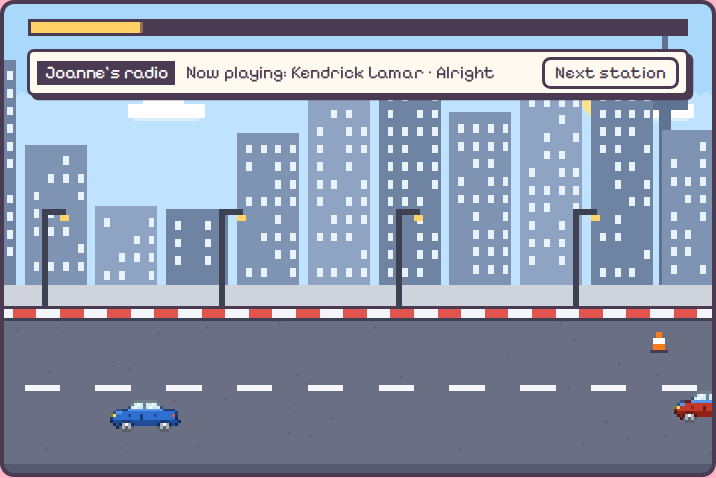
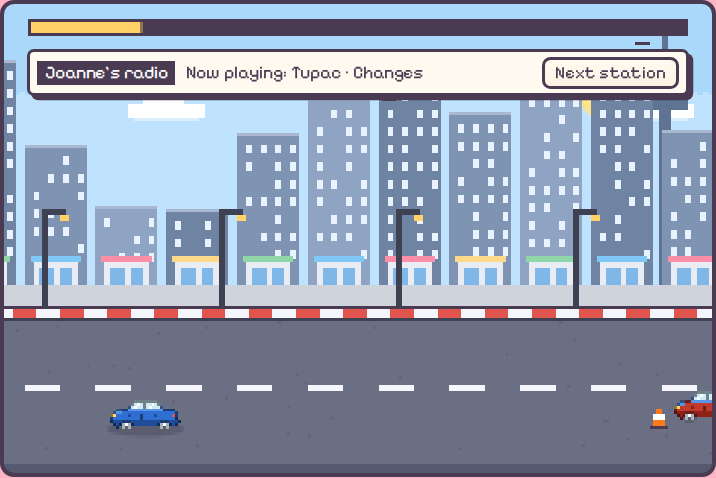
Detail and life-sim pass
- Furniture detail: panelled wardrobe, vanity gleam, locker vents and padlocks, desk keyboards and mice, round-leaf plants, layered palm, striped towel and rounded umbrella
- Window light on the bedroom floor, candle glow on Botanist tables, shop awnings and birds on the drive, two-tone battle platforms with sparkles
- Needs-style HUD: stat icons, bars coloured green/amber/red by level, glossy fill
- In-game clock per scene that ticks slowly and pauses in dialogue
- Speech bubbles over whoever is talking on the map
- Dollhouse depth: furniture front faces and lit wall tops; glossy buttons
- Refreshed screenshots; CLAUDE.md notes

Claude-Session: https://claude.ai/code/session_013V3J7QvyVWMSHyHkDs2Wb3

diff --git a/index.html b/index.html
@@ -18,17 +18,21 @@ body{min-height:100vh;display:flex;justify-content:center;font-family:'Pixelify 
 #app{width:min(100%,780px);padding:14px;display:flex;flex-direction:column;gap:14px}
 .shell{background:var(--shell);border:4px solid var(--ink);border-radius:28px 28px 60px 28px;padding:14px;box-shadow:8px 8px 0 var(--ink);display:flex;flex-direction:column;gap:12px}
 #hud{display:flex;flex-wrap:wrap;align-items:center;justify-content:space-between;gap:10px}
+#chapterWrap{display:flex;flex-direction:column;gap:2px;min-width:0}
 #chapter{font-size:clamp(15px,3.2vw,22px);font-weight:700}
+#clock{font-family:Figtree,sans-serif;font-size:12px;font-weight:700;color:var(--ink);background:rgba(255,255,255,.55);border-radius:6px;padding:1px 7px;width:-webkit-fit-content;width:fit-content;letter-spacing:.3px}
 #hudBtns{display:flex;gap:8px}
-.hbtn{border-radius:8px;font:inherit;font-size:14px;padding:6px 12px;min-height:36px;background:var(--paper);border:3px solid var(--ink);color:var(--ink);cursor:pointer;box-shadow:3px 3px 0 var(--ink)}
+.hbtn{border-radius:8px;font:inherit;font-size:14px;padding:6px 12px;min-height:36px;background:linear-gradient(var(--paper),#fdf2e2);border:3px solid var(--ink);color:var(--ink);cursor:pointer;box-shadow:3px 3px 0 var(--ink)}
 .hbtn{display:inline-flex;align-items:center;gap:6px}
 .hbtn svg{width:18px;height:18px;fill:none;stroke:currentColor;stroke-width:2.4;stroke-linecap:square;flex-shrink:0}
 .hbtn .x{display:none}#muteBtn[aria-pressed="true"] .x{display:inline}#muteBtn[aria-pressed="true"] .w{display:none}
 .hbtn:active{transform:translate(2px,2px);box-shadow:1px 1px 0 var(--ink)}
 #stats{width:100%;display:grid;grid-template-columns:repeat(5,minmax(0,1fr));gap:8px}
 .stat{display:flex;flex-direction:column;gap:3px;font-size:12px}
+.stat span{display:flex;align-items:center;gap:4px}
+.stat svg{width:11px;height:11px;fill:none;stroke:currentColor;stroke-width:2.2;stroke-linecap:round;stroke-linejoin:round;flex-shrink:0}
 .stat i{display:block;height:9px;border-radius:5px;overflow:hidden;background:var(--paper);border:2px solid var(--ink)}
-.stat b{display:block;height:100%;transition:width .4s}
+.stat b{display:block;height:100%;transition:width .4s,background .4s;background-image:linear-gradient(rgba(255,255,255,.45),rgba(255,255,255,0) 55%)}
 .stat.pulse i{animation:pulse .7s steps(2) 2}
 @keyframes pulse{50%{background:var(--sun)}}
 .chapcard{border-radius:1.2cqw;margin:0 6cqw;position:absolute;left:0;right:0;top:50%;transform:translateY(-50%);padding:3cqw 4cqw;background:var(--ink);color:#fff;text-align:center;font-size:max(15px,5.4cqw);font-weight:700;z-index:7;pointer-events:none;animation:chap 1.8s forwards}
@@ -55,7 +59,7 @@ body{min-height:100vh;display:flex;justify-content:center;font-family:'Pixelify 
 .panel h2{margin:0;font-size:5cqw;line-height:1}
 .panel p{margin:0}
 .sub{font-family:Figtree,sans-serif;font-size:max(11px,2.6cqw);color:var(--muted)}
-.opt{border-radius:1.2cqw;font:inherit;font-size:max(12px,3.2cqw);text-align:left;background:var(--paper);color:var(--ink);border:.55cqw solid var(--ink);padding:1.2cqw 2cqw;cursor:pointer;display:flex;flex-direction:column;justify-content:center;gap:.3cqw;min-height:7.5cqw}
+.opt{border-radius:1.2cqw;font:inherit;font-size:max(12px,3.2cqw);text-align:left;background:linear-gradient(var(--paper),#fdf2e2);color:var(--ink);border:.55cqw solid var(--ink);padding:1.2cqw 2cqw;cursor:pointer;display:flex;flex-direction:column;justify-content:center;gap:.3cqw;min-height:7.5cqw}
 .opt small{font-family:Figtree,sans-serif;font-size:max(10.5px,2.3cqw);color:var(--muted)}
 .opt.on{background:#fff3f6;border-color:var(--pinkd);box-shadow:.6cqw .6cqw 0 var(--pinkd)}
 .opt.done{background:#e3f6ea;border-color:#2f7a52;color:#2f7a52;box-shadow:none}
@@ -161,7 +165,7 @@ button:focus-visible{outline:3px solid #3d7be0;outline-offset:3px}
 <div id="app">
   <div class="shell">
     <header id="hud">
-      <div id="chapter">Annette's Big Day</div>
+      <div id="chapterWrap"><div id="chapter">Annette's Big Day</div><div id="clock" aria-live="off">7:30 am</div></div>
       <div id="hudBtns">
         <button class="hbtn" id="bagBtn" type="button" aria-label="Collection"><svg viewBox="0 0 24 24" aria-hidden="true"><path d="M5 8h14l-1 12H6L5 8z"/><path d="M9 8V6a3 3 0 0 1 6 0v2"/></svg><span class="bl">Collection</span></button>
         <button class="hbtn" id="muteBtn" type="button" aria-pressed="false" aria-label="Sound on"><svg viewBox="0 0 24 24" aria-hidden="true"><path d="M4 9h4l5-4v14l-5-4H4z"/><path class="w" d="M16.5 8.5a5 5 0 0 1 0 7M19 6a8.5 8.5 0 0 1 0 12"/><path class="x" d="M16 9l6 6M22 9l-6 6"/></svg><span class="bl">Sound on</span></button>
@@ -354,6 +358,15 @@ const G = {
 };
 const F = G.F;
 const STAT_INFO = { energy: ['Energy', '#3fae7c'], glow: ['Glow', '#ff6f91'], gains: ['Gains', '#3d7be0'], tidy: ['Tidy', '#ffb020'], happy: ['Happy', '#d6336c'] };
+const STAT_ICON = {
+  energy: '<path d="M6 1L2 7h4l-1 4 5-6H6z"/>',
+  glow: '<circle cx="6" cy="6" r="2.5"/><path d="M6 1v1.5M6 9.5V11M1 6h1.5M9.5 6H11M2.5 2.5l1 1M8.5 8.5l1 1M2.5 9.5l1-1M8.5 3.5l1-1"/>',
+  gains: '<path d="M2 4v4M10 4v4M3.5 3v6M8.5 3v6M3.5 6h5"/>',
+  tidy: '<path d="M2 6.5l3 3 5-6"/>',
+  happy: '<circle cx="6" cy="6" r="4.5"/><path d="M4 7c.6.9 1.3 1.3 2 1.3S7.4 7.9 8 7"/>'
+};
+// needs-style colouring: green when full, amber when slipping, red when low
+function needColour(v) { return v < 30 ? '#e05252' : v < 60 ? '#f0b429' : '#3fae7c'; }
 const BADGES = {
   glow: { n: 'Glow badge', how: 'Nail the skincare routine' },
   gains: { n: 'Gains badge', how: 'Set a PR at the squat rack' },
@@ -364,8 +377,14 @@ const SECRET_IDS = ['owl', 'book', 'card', 'poster'];
 
 /* ---------------- HUD ---------------- */
 const statsEl = $('#stats');
-Object.keys(STAT_INFO).forEach(k => { const s = el('div', 'stat', `<span>${STAT_INFO[k][0]}</span><i><b id="st-${k}" style="background:${STAT_INFO[k][1]}"></b></i>`); statsEl.append(s); });
-function updateHUD() { for (const k in G.stats) $('#st-' + k).style.width = G.stats[k] + '%'; }
+Object.keys(STAT_INFO).forEach(k => { const s = el('div', 'stat', `<span><svg viewBox="0 0 12 12" aria-hidden="true">${STAT_ICON[k]}</svg>${STAT_INFO[k][0]}</span><i><b id="st-${k}" style="background-color:${needColour(G.stats[k])}"></b></i>`); statsEl.append(s); });
+function updateHUD() { for (const k in G.stats) { const b = $('#st-' + k); b.style.width = G.stats[k] + '%'; b.style.backgroundColor = needColour(G.stats[k]); } }
+// in-game clock: each scene starts at its own time of day and ticks on slowly
+let clockMin = 7 * 60 + 30, clockAcc = 0;
+const SCENE_TIME = { bedroom: 7 * 60 + 30, gym: 8 * 60 + 45, office: 10 * 60 + 5, lunch: 12 * 60 + 30, beach: 17 * 60 + 20, botanist: 19 * 60 + 15, finale: 21 * 60, credits: 23 * 60 + 30 };
+function setClock(id) { if (SCENE_TIME[id] != null) clockMin = SCENE_TIME[id]; drawClock(); }
+function drawClock() { const h = Math.floor(clockMin / 60) % 24, m = clockMin % 60; $('#clock').textContent = ((h + 11) % 12 + 1) + ':' + ('0' + m).slice(-2) + (h < 12 ? ' am' : ' pm'); }
+function tickClock(dt) { if (G.scene === 'title' || G.mode === 'dialog' || G.mode === 'menu') return; clockAcc += dt; if (clockAcc >= 2.5) { clockAcc = 0; clockMin = Math.min(clockMin + 1, 23 * 60 + 59); drawClock(); } }
 function setChapter(t) { $('#chapter').textContent = t; }
 let lastCard = '';
 function chapterCard(t) {
@@ -684,7 +703,7 @@ function loadMap(id) {
   const s = M.start;
   G.p = { x: s.x, y: s.y, px: s.x * 16, py: s.y * 16, dir: s.dir || 'down', mv: null, bump: false };
   G.l = M.luca ? { x: M.luca.x, y: M.luca.y, px: M.luca.x * 16, py: M.luca.y * 16, mv: null, flip: M.luca.x > s.x } : null; // Luca only joins in the morning
-  clearUI(); setChapter(M.title); chapterCard(M.title); G.scene = 'map'; G.mode = 'map'; music(id);
+  clearUI(); setChapter(M.title); chapterCard(M.title); setClock(id); G.scene = 'map'; G.mode = 'map'; music(id);
   if (M.onEnter) M.onEnter();
 }
 function interact() {
@@ -882,7 +901,8 @@ function renderDrive() {
     for (let i = -1; i < 12; i++) {
       const k = base + i, x = i * 24 - off, h = 26 + Math.floor(hsh(k, 3, 1) * 52), c = ['#7f93b3', '#8fa3c3', '#6f83a3'][((k % 3) + 3) % 3];
       R(x, 96 - h, 21, h, c);
-      for (let wy = 96 - h + 4; wy < 92; wy += 6) for (let wx = 3; wx < 19; wx += 5) if (hsh(k, wy, wx) > 0.35) R(x + wx, wy, 2, 3, '#e9f3ff');
+      for (let wy = 96 - h + 4; wy < 86; wy += 6) for (let wx = 3; wx < 19; wx += 5) if (hsh(k, wy, wx) > 0.35) R(x + wx, wy, 2, 3, '#e9f3ff');
+      R(x, 96 - h, 21, 1, '#a9b8d0'); R(x + 3, 88, 15, 8, '#e9edf3'); R(x + 5, 90, 5, 6, '#7fb7e8'); R(x + 12, 90, 4, 6, '#7fb7e8'); R(x + 2, 86, 17, 2, ['#ff8fa8', '#ffd98a', '#8fd6a8', '#7fc8f8'][((k % 4) + 4) % 4]);
     }
     R(-4, 96, 248, 8, '#cfd3dc');
   } else {
@@ -906,7 +926,9 @@ function renderDrive() {
   R(-4, 157, 248, 3, '#565a70');
   d.cones.forEach(c => { const y = LANES[c.lane] + 4, x = c.x; R(x + 2, y, 2, 2, '#ff7a1a'); R(x + 1, y + 2, 4, 2, '#ffffff'); R(x + 1, y + 4, 4, 2, '#ff7a1a'); R(x, y + 6, 6, 1, INK); });
   d.slows.forEach(c => { drawSpr(sprite('corolla', { C: '#c0392b', c: '#8e2216' }), c.x, LANES[c.lane] - 2, false); });
+  oval(48, d.y + 11, 13, 2.5, 'rgba(35,29,51,.22)');
   drawSpr(sprite('corolla'), 36, d.y + (Math.floor(G.t * 10) % 2), false);
+  for (let i = 0; i < 3; i++) { const bx = ((i * 97 - d.scroll * 0.25) % 280 + 280) % 280 - 20, by = 14 + i * 9 + Math.round(Math.sin(G.t * 3 + i) * 1), w = Math.floor(G.t * 6 + i) % 2; R(bx, by + w, 2, 1, INK); R(bx + 2, by, 1, 1, INK); R(bx + 3, by + w, 2, 1, INK); }
   R(8, 5, 224, 6, INK); R(9, 6, 222 * clamp(d.t / d.dur, 0, 1), 4, '#ffd166');
   ctx.restore();
 }
@@ -1030,8 +1052,10 @@ function renderBattle() {
   R(0, 0, 240, 160, E.bg); for (let y = 6; y < 66; y += 12) R(0, y, 240, 1, 'rgba(35,29,51,.05)');
   for (let x = -40; x < 280; x += 20) { const o = (G.t * 6) % 20; R(x + o, 0, 6, 66, 'rgba(255,255,255,.18)'); }
   R(0, 66, 240, 94, E.floor); R(0, 66, 240, 2, 'rgba(35,29,51,.12)'); for (let y = 76; y < 160; y += 14) R(0, y, 240, 1, 'rgba(255,255,255,.25)');
-  oval(E.x + 24, E.y + (E.sprite === 'inbox' ? 40 : 30), 38, 7, '#bfe3a0', INK);
-  oval(56, 100, 46, 9, '#bfe3a0', INK);
+  const ey = E.y + (E.sprite === 'inbox' ? 40 : 30);
+  oval(E.x + 24, ey, 38, 7, '#bfe3a0', INK); oval(E.x + 24, ey - 1, 30, 4, '#d4efc0');
+  oval(56, 100, 46, 9, '#bfe3a0', INK); oval(56, 99, 36, 5, '#d4efc0');
+  for (let i = 0; i < 6; i++) { const a = G.t * 1.2 + i * 1.05, sx = E.x + 24 + Math.cos(a) * 34, sy = ey - 34 + Math.sin(a * 1.7) * 14; if ((Math.floor(G.t * 4) + i) % 3) R(Math.round(sx), Math.round(sy), 1, 1, '#ffffff'); }
   const bob = Math.round(Math.sin(G.t * 3) * 1.5);
   if (!(b.flashE > 0 && Math.floor(G.t * 20) % 2)) {
     drawSpr(sprite(E.sprite), E.x, E.y + bob, false, E.scale);
@@ -1073,7 +1097,7 @@ addEventListener('keydown', e => { if (G.mode === 'menu' && MENU && MENU.cols ==
 
 /* ---------------- chapter 4: lunch ---------------- */
 function lunchScene() {
-  clearUI(); G.scene = 'lunch'; setChapter('Chapter 4: Lunch break'); chapterCard('Chapter 4: Lunch break'); music('lunch');
+  clearUI(); G.scene = 'lunch'; setChapter('Chapter 4: Lunch break'); chapterCard('Chapter 4: Lunch break'); setClock('lunch'); music('lunch');
   const p = el('div', 'panel', '<h2>Lunch break</h2><p class="sub">Midday hunger hits. What are we grabbing?</p><div class="grid2"></div>');
   ui.append(p);
   const btns = CONFIG.lunches.map(d => makeBtn(`<span>${esc(d.n)}</span><small>${esc(d.d)}</small>`, () => {
@@ -1133,7 +1157,7 @@ function dinnerMenu() {
 function finale() {
   const lines = [{ n: CONFIG.boyfriend, t: "Okay. One more thing." }, "The staff bring out a birthday cake, candles lit.", "The whole bar starts singing."].concat(CONFIG.finaleMessage.map(t => ({ n: CONFIG.boyfriend, t })), [{ n: CONFIG.name, t: CONFIG.catchphrase }]);
   say(lines, () => fade(() => {
-    clearUI(); G.scene = 'finale'; G.mode = 'busy'; G.fx = []; G.fxT = 0;
+    clearUI(); G.scene = 'finale'; G.mode = 'busy'; setClock('finale'); G.fx = []; G.fxT = 0;
     G.stats.happy = 100; updateHUD(); setTimeout(() => earn('birthday'), 3500); music('finale'); setChapter('Happy birthday!');
     ui.append(el('div', 'big', 'Happy birthday, ' + esc(CONFIG.name) + '!'));
     const b = makeBtn('Roll credits', credits); b.classList.add('finbtn'); ui.append(b); setMenu([b]);
@@ -1200,7 +1224,7 @@ function drawFloor(th, X, Y, tx, ty) {
 function drawWall(th, X, Y, tx, ty, tiles) {
   const below = ty + 1 < tiles.length ? tiles[ty + 1][tx] : '#';
   const col = { bedroom: ['#f6dbe6', '#eab8cb'], gym: ['#eceff5', '#ff9fb4'], office: ['#eef2f7', '#cfd8e3'], botanist: ['#3f6f5a', '#e6c47a'] }[th];
-  R(X, Y, 16, 16, col[0]);
+  R(X, Y, 16, 16, col[0]); if (ty === 0) { R(X, Y, 16, 2, lite(col[0])); R(X, Y + 2, 16, 1, shade(col[0], 0.9)); }
   if (th === 'bedroom') { R(X + 3, Y, 1, 13, '#f2d0de'); R(X + 11, Y, 1, 13, '#f2d0de'); if ((tx + ty) % 2 === 0) { R(X + 6, Y + 5, 2, 2, col[1]); R(X + 8, Y + 5, 2, 2, col[1]); R(X + 7, Y + 7, 2, 1, col[1]); } R(X, Y + 11, 16, 2, '#ffffff'); }
   if (th === 'gym') R(X, Y + 5, 16, 3, col[1]);
   if (th === 'office') { R(X, Y + 11, 16, 1, col[1]); R(X, Y + 12, 16, 1, '#ffffff'); }
@@ -1211,13 +1235,13 @@ function drawWall(th, X, Y, tx, ty, tiles) {
 function isOrigin(tiles, tx, ty, c) { return (tx === 0 || tiles[ty][tx - 1] !== c) && (ty === 0 || tiles[ty - 1][tx] !== c); }
 function extent(tiles, tx, ty, c) { let w = 1, h = 1; while (tiles[ty][tx + w] === c) w++; while (tiles[ty + h] && tiles[ty + h][tx] === c) h++; return [w * 16, h * 16]; }
 function drawObject(th, c, X, Y, W, H) {
-  const box = (x, y, w, h, f) => { const o = shade(f, 0.55); R(X + x + 1, Y + y, w - 2, 1, o); R(X + x + 1, Y + y + h - 1, w - 2, 1, o); R(X + x, Y + y + 1, 1, h - 2, o); R(X + x + w - 1, Y + y + 1, 1, h - 2, o); R(X + x + 1, Y + y + 1, w - 2, h - 2, f); if (w > 4 && h > 4) R(X + x + 2, Y + y + 1, w - 4, 1, lite(f)); };
+  const box = (x, y, w, h, f) => { const o = shade(f, 0.55); R(X + x + 1, Y + y + h, w - 2, 2, shade(f, 0.42)); R(X + x + 1, Y + y, w - 2, 1, o); R(X + x + 1, Y + y + h - 1, w - 2, 1, o); R(X + x, Y + y + 1, 1, h - 2, o); R(X + x + w - 1, Y + y + 1, 1, h - 2, o); R(X + x + 1, Y + y + 1, w - 2, h - 2, f); if (w > 4 && h > 4) R(X + x + 2, Y + y + 1, w - 4, 1, lite(f)); R(X + x + 1, Y + y + 2, 1, h - 4, lite(f)); };
   const k = th + ':' + c;
   switch (k) {
     case 'bedroom:o': box(2, 2, 12, 10, '#bfe3ff'); R(X + 3, Y + 3, 2, 2, '#ffd166'); R(X + 7, Y + 3, 1, 8, '#fff'); R(X + 3, Y + 7, 10, 1, '#fff'); if (!G.secrets.owl) { R(X + 9, Y + 8, 4, 3, '#8a5a3b'); R(X + 10, Y + 8, 1, 1, '#ffd166'); R(X + 12, Y + 8, 1, 1, '#ffd166'); } break;
-    case 'bedroom:w': box(0, -8, W, H + 7, '#b07a4a'); R(X + W / 2, Y - 7, 1, H + 5, INK); R(X + W / 2 - 4, Y + 2, 2, 3, '#ffd166'); R(X + W / 2 + 3, Y + 2, 2, 3, '#ffd166'); break;
+    case 'bedroom:w': box(0, -8, W, H + 7, '#b07a4a'); R(X + 1, Y - 7, W - 2, 1, '#d9a56f'); R(X + 3, Y - 4, W / 2 - 5, H + 1, '#a06d40'); R(X + W / 2 + 2, Y - 4, W / 2 - 5, H + 1, '#a06d40'); R(X + 4, Y - 3, W / 2 - 7, 1, '#c48d5a'); R(X + W / 2 + 3, Y - 3, W / 2 - 7, 1, '#c48d5a'); R(X + W / 2, Y - 7, 1, H + 5, '#6b4a32'); R(X + W / 2 - 4, Y + 2, 2, 3, '#ffd98a'); R(X + W / 2 + 3, Y + 2, 2, 3, '#ffd98a'); R(X + 1, Y + H - 2, W - 2, 1, '#6b4a32'); break;
     case 'bedroom:k': { box(0, -8, W, H + 7, '#6b4a32'); const cols = ['#ff6f91', '#3d7be0', '#ffd166', '#3fae7c', '#c9b6f2', '#e2554f']; [-6, 1, 8].forEach((sy, si) => { for (let bx = 2, i = 0; bx < W - 3; bx += 3, i++) { const h = 4 + Math.floor(hsh(bx, si, 7) * 3); R(X + bx, Y + sy + (6 - h), 2, h, cols[(i + si) % cols.length]); } R(X + 1, Y + sy + 6, W - 2, 1, INK); }); break; }
-    case 'bedroom:v': box(W / 2 - 6, -12, 12, 11, '#dff3ff'); R(X + W / 2 - 3, Y - 10, 2, 5, '#ffffff'); box(0, 1, W, H - 2, '#ffffff'); R(X + 2, Y + 7, W - 4, 1, '#d7dce6'); R(X + 4, Y - 3, 3, 4, '#ff9fb8'); R(X + 8, Y - 2, 3, 3, '#9fd0ff'); R(X + W - 8, Y - 3, 2, 4, '#c9b6f2'); R(X + W - 5, Y - 2, 3, 3, '#ffd166'); break;
+    case 'bedroom:v': box(W / 2 - 6, -12, 12, 11, '#dff3ff'); R(X + W / 2 - 4, Y - 10, 8, 7, '#eaf7ff'); R(X + W / 2 - 3, Y - 10, 2, 5, '#ffffff'); R(X + W / 2 + 1, Y - 6, 1, 2, '#ffffff'); box(0, 1, W, H - 2, '#ffffff'); R(X + 2, Y + 7, W - 4, 1, '#d7dce6'); R(X + W / 2 - 1, Y + 8, 2, 1, '#c9b6f2'); R(X + 4, Y - 3, 3, 4, '#ff9fb8'); R(X + 5, Y - 4, 1, 1, '#e27a98'); R(X + 8, Y - 2, 3, 3, '#9fd0ff'); R(X + W - 8, Y - 3, 2, 4, '#c9b6f2'); R(X + W - 5, Y - 2, 3, 3, '#ffd98a'); R(X + W - 4, Y - 3, 1, 1, '#ffffff'); break;
     case 'bedroom:b': box(0, -8, W, 9, '#b07a4a'); R(X + 2, Y - 6, W - 4, 1, '#c98f5a'); box(0, -1, W, H, '#ff9fb8'); box(3, 1, W - 6, 8, '#ffffff'); R(X + 4, Y + 7, W - 8, 1, '#e3e8f0');
       box(0, 11, W, 6, '#ffc2d3'); R(X + 1, Y + 16, W - 2, 1, '#e27a98'); for (let i = 3; i < W - 2; i += 6) { R(X + i, Y + 20, 2, 2, '#ffe0ea'); R(X + i + 3, Y + 25, 2, 2, '#ffe0ea'); }
       R(X + W - 9, Y + 2, 5, 4, '#c9a27a'); R(X + W - 9, Y + 1, 1, 1, '#c9a27a'); R(X + W - 5, Y + 1, 1, 1, '#c9a27a'); R(X + W - 8, Y + 3, 1, 1, INK); R(X + W - 6, Y + 3, 1, 1, INK); break;
@@ -1233,27 +1257,27 @@ function drawObject(th, c, X, Y, W, H) {
     case 'bedroom:S': { box(2, 3, 12, 11, '#2b2d42'); R(X + 3, Y + 4, 3, 2, '#4d4764'); R(X + 10, Y + 4, 3, 2, '#4d4764'); oval(X + 6, Y + 10, 2.5, 2.5, '#8a93a6', INK); oval(X + 11, Y + 10, 2.5, 2.5, '#8a93a6', INK); R(X + 6, Y + 10, 1, 1, INK); R(X + 11, Y + 10, 1, 1, INK); if (!F.music) { R(X + 11, Y - 4, 1, 6, '#ff6f91'); R(X + 11, Y - 4, 4, 1, '#ff6f91'); R(X + 14, Y - 5, 1, 4, '#ff6f91'); R(X + 10, Y + 1, 2, 2, '#ff6f91'); } break; }
     case 'gym:m': box(0, 1, W, 12, '#cfe7ff'); for (let i = 4; i < W; i += 9) R(X + i, Y + 3, 2, 6, '#ffffff'); break;
     case 'gym:r': R(X + 3, Y - 10, 2, H + 8, '#8a93a6'); R(X + W - 5, Y - 10, 2, H + 8, '#8a93a6'); R(X, Y - 3, W, 2, INK); box(0, -7, 5, 10, '#ff6f91'); box(W - 5, -7, 5, 10, '#ff6f91'); R(X + 1, Y + H - 3, W - 2, 2, '#8a93a6'); break;
-    case 'gym:L': box(0, -8, W, H + 7, '#6f8fb8'); for (let i = 8; i < W; i += 8) R(X + i, Y - 7, 1, H + 5, INK); for (let i = 0; i < W; i += 8) { R(X + i + 2, Y - 5, 4, 1, '#4f6f98'); R(X + i + 2, Y - 3, 4, 1, '#4f6f98'); R(X + i + 5, Y + 4, 1, 3, '#ffd166'); } break;
-    case 'gym:b': box(0, 5, W, 6, '#2b2d42'); R(X + 3, Y + 11, 2, 4, '#8a93a6'); R(X + W - 5, Y + 11, 2, 4, '#8a93a6'); break;
+    case 'gym:L': box(0, -8, W, H + 7, '#6f8fb8'); for (let i = 8; i < W; i += 8) R(X + i, Y - 7, 1, H + 5, '#4f6f98'); for (let i = 0; i < W; i += 8) { R(X + i + 2, Y - 5, 4, 1, '#4f6f98'); R(X + i + 2, Y - 3, 4, 1, '#4f6f98'); R(X + i + 2, Y - 1, 4, 1, '#4f6f98'); R(X + i + 2, Y + 2, 4, 2, '#ffffff'); R(X + i + 5, Y + 6, 1, 3, '#ffd98a'); R(X + i + 1, Y - 7, 1, H + 5, '#8aa8cf'); } break;
+    case 'gym:b': box(0, 5, W, 6, '#3f4258'); R(X + 1, Y + 6, W - 2, 1, '#5c607a'); R(X + 3, Y + 11, 2, 4, '#8a93a6'); R(X + W - 5, Y + 11, 2, 4, '#8a93a6'); R(X + 2, Y + 15, W - 4, 1, '#6d7488'); break;
     case 'office:w': box(1, 1, W - 2, 12, '#bfe3ff'); R(X + 3, Y + 7, 5, 5, '#7f93b3'); R(X + 9, Y + 4, 4, 8, '#8fa3c3'); R(X + 15, Y + 6, 6, 6, '#6f83a3'); R(X + 23, Y + 8, 4, 4, '#7f93b3'); R(X + W / 2, Y + 2, 1, 10, '#ffffff'); break;
-    case 'office:p': box(4, 8, 8, 7, '#c55a3a'); R(X + 3, Y + 1, 4, 7, '#3fae7c'); R(X + 8, Y - 2, 5, 10, '#2f8f63'); R(X + 6, Y + 3, 4, 5, '#56c28c'); break;
-    case 'office:d': box(0, 3, W, 10, '#c9a27a'); for (let i = 0; i < W; i += 16) { box(i + 4, -5, 9, 8, '#2b2d42'); R(X + i + 5, Y - 4, 7, 5, '#6fa8dc'); R(X + i + 7, Y + 3, 3, 1, INK); } break;
+    case 'office:p': box(4, 8, 8, 7, '#c55a3a'); R(X + 5, Y + 9, 6, 1, '#e28a68'); oval(X + 5, Y + 5, 3, 3, '#3fae7c'); oval(X + 11, Y + 3, 3.5, 4, '#2f8f63'); oval(X + 8, Y + 6, 3, 2.5, '#56c28c'); R(X + 8, Y + 2, 1, 6, '#2f8f63'); R(X + 10, Y + 1, 1, 1, '#a8e6c4'); break;
+    case 'office:d': box(0, 3, W, 10, '#c9a27a'); R(X + 1, Y + 4, W - 2, 1, '#e0c29a'); for (let i = 0; i < W; i += 16) { box(i + 4, -5, 9, 8, '#3f4258'); R(X + i + 5, Y - 4, 7, 5, '#6fa8dc'); R(X + i + 6, Y - 3, 3, 1, '#a9d1ef'); R(X + i + 7, Y + 3, 3, 1, '#2b2d42'); R(X + i + 4, Y + 7, 8, 2, '#f4f6fb'); R(X + i + 5, Y + 7, 6, 1, '#d7dce6'); R(X + i + 13, Y + 7, 2, 2, '#f4f6fb'); } break;
     case 'office:Y': box(0, 3, W, 10, '#e0c29a'); if (!F.sorted) { R(X + 2, Y + 1, 5, 4, '#ffffff'); R(X + 8, Y, 5, 3, '#ffd166'); R(X + 5, Y + 5, 4, 3, '#ff9fb8'); R(X + 11, Y + 4, 3, 4, '#8a5a3b'); } else { box(2, -1, 7, 5, '#ffffff'); R(X + 3, Y + 1, 5, 1, '#d7dce6'); R(X + 11, Y - 1, 3, 4, '#3fae7c'); R(X + 10, Y + 3, 5, 2, '#c55a3a'); } if (!F.officeBattle) { R(X + 13, Y - 10, 3, 3, '#ff6f91'); R(X + 14, Y - 7, 1, 6, INK); } break;
     case 'office:Z': box(0, 3, W, 10, '#e0c29a'); box(3, -6, 10, 9, '#2b2d42'); R(X + 4, Y - 5, 8, 6, F.officeBattle ? '#6fa8dc' : '#ffe7ee'); R(X + 7, Y + 3, 2, 1, INK); if (!F.officeBattle) { R(X + 10, Y - 9, 5, 5, '#ff5c7a'); R(X + 12, Y - 8, 1, 2, '#fff'); R(X + 12, Y - 5, 1, 1, '#fff'); } break;
     case 'botanist:F': box(1, 0, 14, 13, '#e0b35a'); R(X + 3, Y + 2, 10, 9, '#2b2d42'); R(X + 7, Y + 4, 2, 2, '#ffd166'); R(X + 6, Y + 6, 4, 1, '#ffd166'); R(X + 4, Y + 9, 8, 1, '#ffffff'); break;
-    case 'botanist:f': box(4, 8, 8, 7, '#c55a3a'); R(X + 1, Y - 3, 5, 10, '#3fae7c'); R(X + 9, Y - 6, 6, 13, '#2f8f63'); R(X + 5, Y - 1, 5, 8, '#56c28c'); break;
+    case 'botanist:f': box(4, 8, 8, 7, '#c55a3a'); R(X + 5, Y + 9, 6, 1, '#e28a68'); oval(X + 4, Y + 3, 3.5, 4, '#3fae7c'); oval(X + 12, Y + 1, 3.5, 5, '#2f8f63'); oval(X + 8, Y + 4, 3, 3.5, '#56c28c'); R(X + 8, Y - 2, 1, 9, '#2f8f63'); R(X + 12, Y - 3, 1, 3, '#2f8f63'); R(X + 5, Y + 1, 1, 1, '#a8e6c4'); R(X + 11, Y, 1, 1, '#a8e6c4'); break;
     case 'botanist:r': box(0, 0, W, H - 2, '#5a3620'); R(X + 1, Y + 1, W - 2, 3, '#b07a4a'); R(X + 1, Y + H - 5, W - 2, 1, '#e0b35a'); for (let i = 4; i < W - 4; i += 11) { R(X + i, Y - 5, 3, 6, ['#3fae7c', '#8e1f3a', '#ffd166'][(i / 11 | 0) % 3]); R(X + i + 1, Y - 7, 1, 2, INK); R(X + i + 6, Y - 2, 3, 3, '#dff3ff'); } break;
-    case 'botanist:t': R(X + 3, Y + H - 2, W - 6, 2, 'rgba(35,29,51,.3)'); box(1, 1, W - 2, H - 3, '#5a3620'); R(X + 2, Y + 2, W - 4, 2, '#8a5a3b'); R(X + W / 2 - 1, Y - 1, 2, 4, '#fff5d6'); R(X + W / 2 - 1, Y - 3, 2, 2, '#ff9f43'); R(X + 5, Y + 5, 3, 4, '#dff3ff'); R(X + W - 8, Y + 5, 3, 4, '#8e1f3a'); break;
+    case 'botanist:t': R(X + 3, Y + H - 2, W - 6, 2, 'rgba(35,29,51,.3)'); box(1, 1, W - 2, H - 3, '#5a3620'); R(X + 2, Y + 2, W - 4, 2, '#8a5a3b'); R(X + 3, Y + 2, W - 6, 1, '#a06d40'); R(X + W / 2 - 1, Y - 1, 2, 4, '#fff5d6'); R(X + W / 2 - 1, Y - 3, 2, 2, '#ff9f43'); R(X + W / 2 - 1, Y - 4, 2, 1, '#ffd98a'); R(X + 5, Y + 5, 3, 4, '#dff3ff'); R(X + 5, Y + 5, 1, 2, '#ffffff'); R(X + W - 8, Y + 5, 3, 4, '#8e1f3a'); R(X + W - 8, Y + 5, 1, 1, '#c24a6a'); break;
     case 'beach:J': drawSpr(sprite('corolla'), X + 4, Y + 3, false); break;
-    case 'beach:u': R(X - 6, Y + 6, 14, 8, INK); R(X - 5, Y + 7, 12, 6, '#7fc8f8'); R(X - 5, Y + 9, 12, 2, '#ffffff'); R(X + 7, Y - 6, 2, 20, '#8a5a3b'); box(-2, -13, 20, 8, '#ff5c7a'); R(X + 3, Y - 12, 3, 6, '#ffffff'); R(X + 10, Y - 12, 3, 6, '#ffffff'); break;
-    case 'beach:p': R(X + 6, Y - 10, 4, 25, '#8a5a3b'); for (let i = -8; i < 14; i += 5) R(X + 6, Y + i, 4, 1, '#6b4228'); R(X - 4, Y - 14, 24, 4, '#3fae7c'); R(X, Y - 18, 16, 4, '#2f8f63'); R(X - 3, Y - 10, 6, 3, '#3fae7c'); R(X + 13, Y - 10, 6, 3, '#3fae7c'); break;
+    case 'beach:u': R(X - 6, Y + 6, 14, 8, '#5b93c9'); R(X - 5, Y + 7, 12, 6, '#7fc8f8'); R(X - 5, Y + 9, 12, 2, '#ffffff'); R(X - 5, Y + 12, 12, 1, '#ffffff'); R(X + 7, Y - 6, 2, 20, '#8a5a3b'); oval(X + 8, Y - 9, 11, 5, '#ff8fa8', INK); oval(X + 8, Y - 10, 9, 3, '#ffb3c4'); R(X + 3, Y - 12, 3, 5, '#ffffff'); R(X + 10, Y - 12, 3, 5, '#ffffff'); R(X + 7, Y - 14, 2, 3, '#8a5a3b'); break;
+    case 'beach:p': R(X + 6, Y - 10, 4, 25, '#8a5a3b'); R(X + 7, Y - 10, 1, 25, '#a6714b'); for (let i = -8; i < 14; i += 5) R(X + 6, Y + i, 4, 1, '#6b4228'); oval(X + 8, Y - 16, 12, 4, '#2f8f63'); oval(X + 2, Y - 13, 7, 3, '#3fae7c'); oval(X + 14, Y - 13, 7, 3, '#3fae7c'); oval(X + 8, Y - 19, 7, 3, '#56c28c'); R(X + 6, Y - 12, 2, 2, '#c9a27a'); R(X + 9, Y - 12, 2, 2, '#c9a27a'); break;
     case 'beach:s': box(5, 7, 7, 5, '#ff9fb8'); R(X + 7, Y + 8, 1, 3, '#e27a98'); R(X + 9, Y + 8, 1, 3, '#e27a98'); break;
   }
 }
 // rugs under the cast, lighting over the top: small touches that make rooms feel lived in
 function mapDecor(th, layer) {
   if (layer === 'under') {
-    if (th === 'bedroom') { oval(116, 88, 38, 16, '#c9b6f2', INK); oval(116, 88, 32, 12, '#ddd0fa'); oval(116, 88, 20, 7, '#f3edff'); }
+    if (th === 'bedroom') { R(130, 16, 60, 26, 'rgba(255,255,255,.14)'); R(126, 42, 68, 12, 'rgba(255,255,255,.08)'); oval(116, 88, 38, 16, '#c9b6f2', INK); oval(116, 88, 32, 12, '#ddd0fa'); oval(116, 88, 20, 7, '#f3edff'); }
     if (th === 'gym') { R(57, 34, 94, 44, '#c24a6a'); R(56, 35, 96, 42, '#c24a6a'); R(57, 35, 94, 42, '#ff9fb4'); R(59, 37, 90, 38, '#565c74'); for (let x = 63; x < 148; x += 8) R(x, 37, 1, 38, '#5f657e'); }
     if (th === 'botanist') { oval(128, 108, 34, 15, '#7a1f33', INK); oval(128, 108, 29, 11, '#a3304a'); for (let i = -2; i <= 2; i++) R(128 + i * 10, 104, 2, 8, '#e0b35a'); }
     if (th === 'office') { R(18, 138, 204, 1, 'rgba(35,29,51,.08)'); }
@@ -1263,6 +1287,7 @@ function mapDecor(th, layer) {
       for (let x = 0; x <= 240; x += 4) { const y = 12 + Math.sin(x / 38 * Math.PI) * 4; x ? ctx.lineTo(x, y) : ctx.moveTo(x, y); } ctx.stroke();
       for (let x = 6; x < 240; x += 12) { const y = 13 + Math.sin(x / 38 * Math.PI) * 4, on = (Math.floor(G.t * 2) + x / 12) % 3; R(x - 1, y, 3, 3, on ? '#ffd166' : '#fff5d6'); if (on) R(x - 2, y + 1, 5, 1, 'rgba(255,209,102,.35)'); }
       R(0, 0, 240, 160, 'rgba(255,170,80,.07)');
+      const tl = G.map.tiles; for (let ty = 0; ty < tl.length; ty++) for (let tx = 0; tx < tl[0].length; tx++) if (tl[ty][tx] === 't' && isOrigin(tl, tx, ty, 't')) { const [W] = extent(tl, tx, ty, 't'); const f = 1 + (Math.floor(G.t * 6 + tx) % 2); oval(tx * 16 + W / 2, ty * 16 - 2, 8 + f, 6 + f, 'rgba(255,200,90,.16)'); }
     }
     if (th === 'beach') { R(0, 0, 240, 160, 'rgba(255,150,70,.09)'); R(0, 0, 240, 34, 'rgba(255,130,90,.08)'); }
     if (th === 'office') { for (let i = 0; i < 4; i++) R(18 + i * 48, 16, 30, 70, 'rgba(255,255,255,.05)'); }
@@ -1298,6 +1323,21 @@ function renderMap() {
   if (l) ents.push({ y: l.py, d: () => { oval(l.px + 8, l.py + 15, 6, 2, 'rgba(35,29,51,.18)'); drawSpr(lucaSpr(!!l.mv, l.mv ? l.mv.t : null), l.px, l.py + 1, l.flip); } });
   ents.push({ y: p.py + 0.5, d: () => { oval(p.px + 8, p.py + 15, 6, 2, 'rgba(35,29,51,.18)'); drawSpr(annetteSprite(p.dir === 'up'), p.px, p.py - 4 - pb, false); } });
   ents.sort((a, b) => a.y - b.y).forEach(e => e.d());
+  // life-sim touch: a little speech bubble floats over whoever is talking
+  if (G.mode === 'dialog' && G.dlg) {
+    const ln = G.dlg.lines[G.dlg.i]; let bx = null, by = null;
+    const find = ch => { for (let ty = 0; ty < tiles.length; ty++) for (let tx = 0; tx < tiles[0].length; tx++) if (tiles[ty][tx] === ch) return [tx * 16, ty * 16]; return null; };
+    if (ln.n === 'Mum') { const m = find('M'); if (m) [bx, by] = m; }
+    else if (ln.n === 'Luca' && l) { bx = l.px; by = l.py; }
+    else if (ln.n === CONFIG.boyfriend) { const a = find('A'); if (a) [bx, by] = a; }
+    else if (ln.n === CONFIG.name || !ln.n) { bx = p.px; by = p.py; }
+    if (bx != null) {
+      const yb = by - 16 + Math.round(Math.sin(G.t * 4) * 1), tag = !!ln.n && ln.n !== CONFIG.name;
+      const fill = tag ? '#ffffff' : '#fff0f4', edge = tag ? '#b9b4c4' : '#e9a5b8';
+      R(bx + 3, yb, 12, 8, edge); R(bx + 2, yb + 1, 14, 6, edge); R(bx + 3, yb + 1, 12, 6, fill); R(bx + 4, yb, 10, 8, fill); R(bx + 6, yb + 8, 3, 1, edge); R(bx + 7, yb + 9, 1, 1, edge);
+      const dots = Math.floor(G.t * 3) % 3; for (let i = 0; i < 3; i++) R(bx + 5 + i * 3, yb + 3, 2, 2, i <= dots ? '#6d5f75' : '#d5cfda');
+    }
+  }
   mapDecor(th, 'over');
   // objective markers
   const hs = (def.hints ? def.hints() : []).filter(Boolean);
@@ -1416,7 +1456,7 @@ function loop(now) {
   else if (G.scene === 'drive') updateDrive(dt);
   else if (G.scene === 'finale' || G.scene === 'credits') updateFinale(dt);
   if (G.mode === 'lift') updateLift(dt);
-  nowPlaying();
+  nowPlaying(); tickClock(dt);
   ctx.clearRect(0, 0, 240, 160);
   if (G.scene === 'title') renderTitle();
   else if (G.scene === 'map') renderMap();

diff --git a/CLAUDE.md b/CLAUDE.md
@@ -21,7 +21,7 @@ A birthday gift game for Annette, built by Paulo. A top-down, handheld-style pix
 - `EDIT ME` / `CONFIG`: all personal content (names, car, company, drinks, dishes, inside jokes, secrets, finale speech)
 - `sprites`: pixel sprites as string rows. Each char maps to a palette key, `.` is transparent. Annette is built from `HEAD_F`/`HEAD_B` plus a `LOWER` style (`pants`, `crop`, `dress`). Lower-case keys are shades: when an override recolours `T`, `P`, `H`, `D` or `M`, the matching lower-case key is darkened automatically, so shading follows every outfit and NPC
 - Luca: `luca`, `luca_walk`, `luca_wag` (side view, faces right, flip to face left). Use `lucaSpr(moving)` to pick the frame
-- `state`, `HUD`, `audio` (WebAudio SFX + tiny chiptune sequencer), `input` (keyboard + on-screen D-pad/A/B)
+- `state`, `HUD` (needs-style bars coloured by level via `needColour`, in-game clock via `SCENE_TIME` / `setClock`), `audio` (WebAudio SFX + tiny chiptune sequencer), `input` (keyboard + on-screen D-pad/A/B)
 - `UI primitives`: `say()` dialogue with typewriter, `setMenu()` keyboard/touch menus, `fade()`
 - `maps`: `MAPS` object. Each map is 15x10 tiles of 16px on a 240x160 canvas
 - Chapter logic: bedroom, drive, gym + lift mini-game, battles, office report sprint, beach, The Botanist, finale, credits
@@ -49,6 +49,7 @@ Title (party stage with Annette, Mum, Paulo and Luca) > Bedroom (outfit, skincar
 - Art direction: cozy and rounded. Outlines are never flat ink: `sprite()` turns `K` pixels into a darker shade of the colour they border, the `box()` helper in `drawObject` draws rounded corners with shaded edges and a top highlight, and `oval(..., INK)` strokes in the fill's own shade. Keep new art in that system rather than adding hard black lines. UI corners use `--r`.
 - Must work on mobile Safari and desktop Chrome. Keep touch controls working.
 - No external network calls. Pixelify Sans and Figtree (SIL OFL) are embedded as base64 `@font-face` rules.
+- Life-sim touches: speech bubbles over whoever is talking (drawn in `renderMap`), furniture with a front face and lit top edge from `box()`, and a clock that pauses during dialogue and menus.
 - Luca only appears in the morning (bedroom), on the title screen and in the credits. He stays home with Mum for the rest of the day.
 - Keep in-screen text readable on phones: use `max(<px>, <n>cqw)` font sizes, never below about 10px.
 - After any change, play through start to finish (or script it with Playwright) and check the console for errors.
